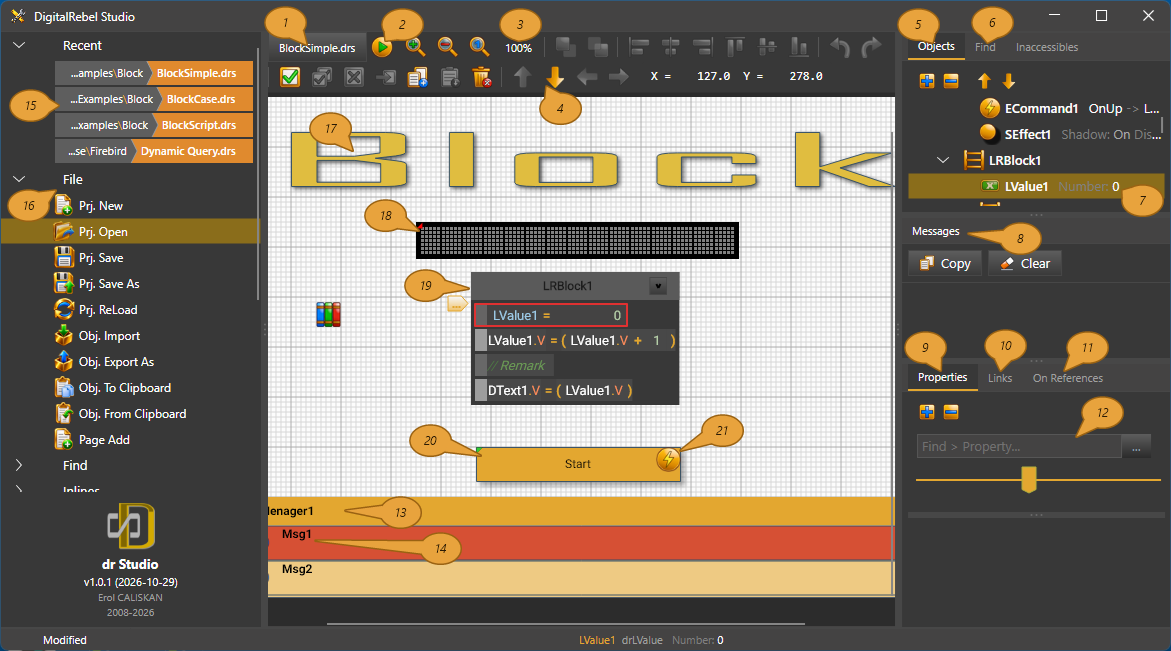
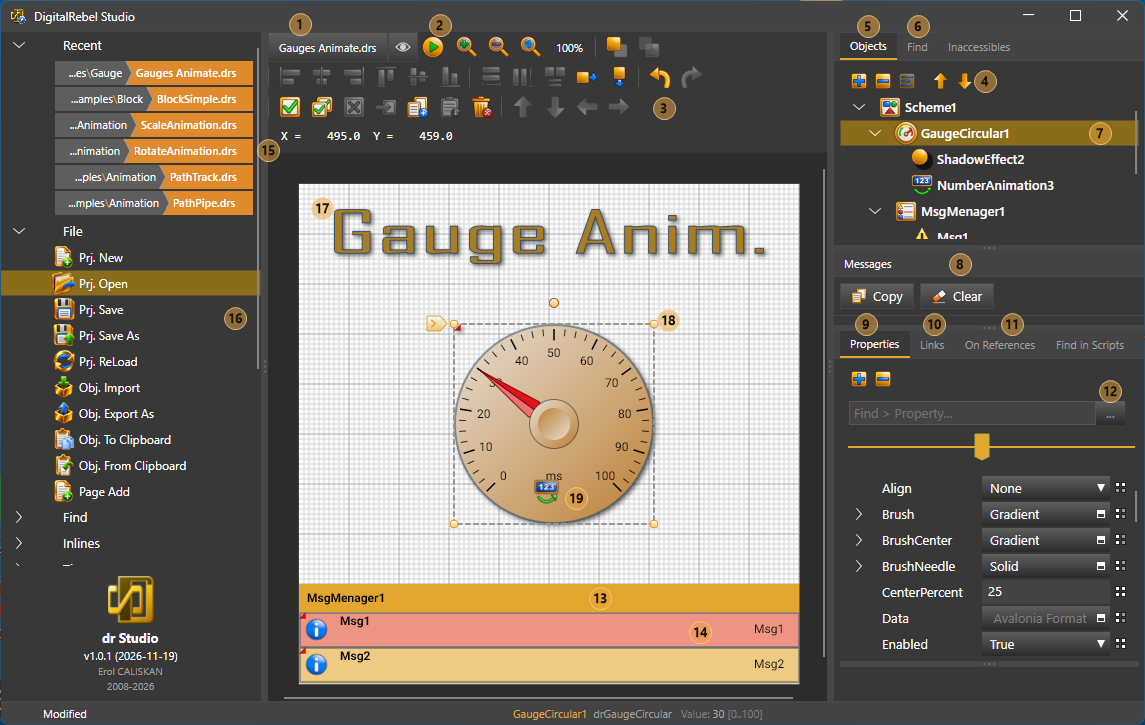
Overview screenshot: new picture with translucent callouts; legend, sizes and alt texts updated

diff --git a/DRS.html b/DRS.html
@@ -391,7 +391,7 @@ dialog.zoom::backdrop{background:rgba(5,9,18,.9);backdrop-filter:blur(3px)}
     </div>
 
     <div class="overview">
-      <img src="images/drs/ide-overview1.png" alt="The DRS Designer with numbered callouts: recent projects and file commands on the left; the project tab, run button and editing toolbar at the top; a panel canvas in the middle holding a drawing, a dot-matrix display, a rung block, a Start button and a message list; the object tree, find, messages, properties, links and references on the right." width="1171" height="651">
+      <img src="images/drs/ide-overview1.png" alt="The DRS Designer with numbered callouts: recent projects and file commands on the left; the project tab, run button and editing toolbar at the top; a panel canvas in the middle holding a drawing, a circular gauge with its number animation and a message list; the object tree, find, messages, properties, links and references on the right." width="1145" height="725">
     </div>
     <p class="shotcap" style="max-width:1180px;margin-left:auto;margin-right:auto">One window: toolbox, canvas, object tree, messages and the property editor — no separate code project, no build step.</p>
     <ol class="legend" aria-label="What the numbers in the picture show">
@@ -412,10 +412,8 @@ dialog.zoom::backdrop{background:rgba(5,9,18,.9);backdrop-filter:blur(3px)}
       <li><b>15</b><span><strong>Recent projects.</strong> The projects you worked on lately, one click away.</span></li>
       <li><b>16</b><span><strong>File.</strong> New, open, save, reload, import and export objects, add a page.</span></li>
       <li><b>17</b><span><strong>A drawing on the canvas.</strong> Shapes, text and effects are components like any other.</span></li>
-      <li><b>18</b><span><strong>Dot matrix display.</strong> Shows the value the rung block writes, the moment it changes.</span></li>
-      <li><b>19</b><span><strong>Rung block.</strong> Logic you can read: count up and show the result on the display.</span></li>
-      <li><b>20</b><span><strong>Button.</strong> An ordinary component &mdash; here it starts the logic beside it.</span></li>
-      <li><b>21</b><span><strong>Event command.</strong> The lightning mark: when the button is released it runs the rung block.</span></li>
+      <li><b>18</b><span><strong>Selected component.</strong> A circular gauge with its handles on the canvas; the same object is highlighted in the tree.</span></li>
+      <li><b>19</b><span><strong>Number animation.</strong> A child of the gauge: it shows the value as a number and animates it as it changes.</span></li>
     </ol>
   </div>
 </div>

diff --git a/index.html b/index.html
@@ -196,7 +196,7 @@ dialog.zoom::backdrop{background:rgba(5,9,18,.9)}
       <div class="projects">
 
         <article class="card proj reveal">
-          <div class="pic"><img src="images/drs/ide-overview1.png" alt="The DRS studio: the canvas, the toolbox and the property editor." loading="lazy"></div>
+          <div class="pic"><img src="images/drs/ide-overview1.png" alt="The DRS studio: recent projects, the canvas, the object tree and the property editor." loading="lazy"></div>
           <div class="txt">
             <h3><span translate="no" class="notranslate">DRS</span> <small>beta</small></h3>
             <p>A free visual studio for <span translate="no" class="notranslate">HMI</span>, <span translate="no" class="notranslate">SCADA</span> and <span translate="no" class="notranslate">IoT</span> panels, for embedded systems developers: <span translate="no" class="notranslate">ESP32</span>, <span translate="no" class="notranslate">Arduino</span>, <span translate="no" class="notranslate">Atmel</span>, <span translate="no" class="notranslate">PIC</span>, <span translate="no" class="notranslate">Raspberry Pi</span>, <span translate="no" class="notranslate">Radxa</span>, <span translate="no" class="notranslate">LattePanda</span> and other embedded boards over <span translate="no" class="notranslate">LZ</span>, serial, <span translate="no" class="notranslate">TCP</span>, <span translate="no" class="notranslate">Bluetooth</span> or <span translate="no" class="notranslate">Modbus</span>. Draw the panel, wire it to your machines, and run the same project on <span translate="no" class="notranslate">Windows</span>, <span translate="no" class="notranslate">Linux</span> and <span translate="no" class="notranslate">Android</span>.</p>

diff --git a/DRSGallery.html b/DRSGallery.html
@@ -289,7 +289,7 @@ const SHOTS = [
   { file: "images/drs/sys-cmd.png", cat: "Logic", w: 943, h: 636,
     title: "Run a system command from a rung",
     text: "A CASE on the operating system name: on Windows the rung runs dir with its output shown in a label; the Linux branch is a block of its own." },
-  { file: "images/drs/ide-overview1.png", cat: "Studio", w: 1171, h: 651,
+  { file: "images/drs/ide-overview1.png", cat: "Studio", w: 1145, h: 725,
     title: "Every tool in one window",
     text: "Projects and file commands, the canvas, the object tree, messages and properties — the numbers are explained on the home page." },
   { file: "images/drs/ide-toolbox.png", cat: "Studio", w: 204, h: 651,
